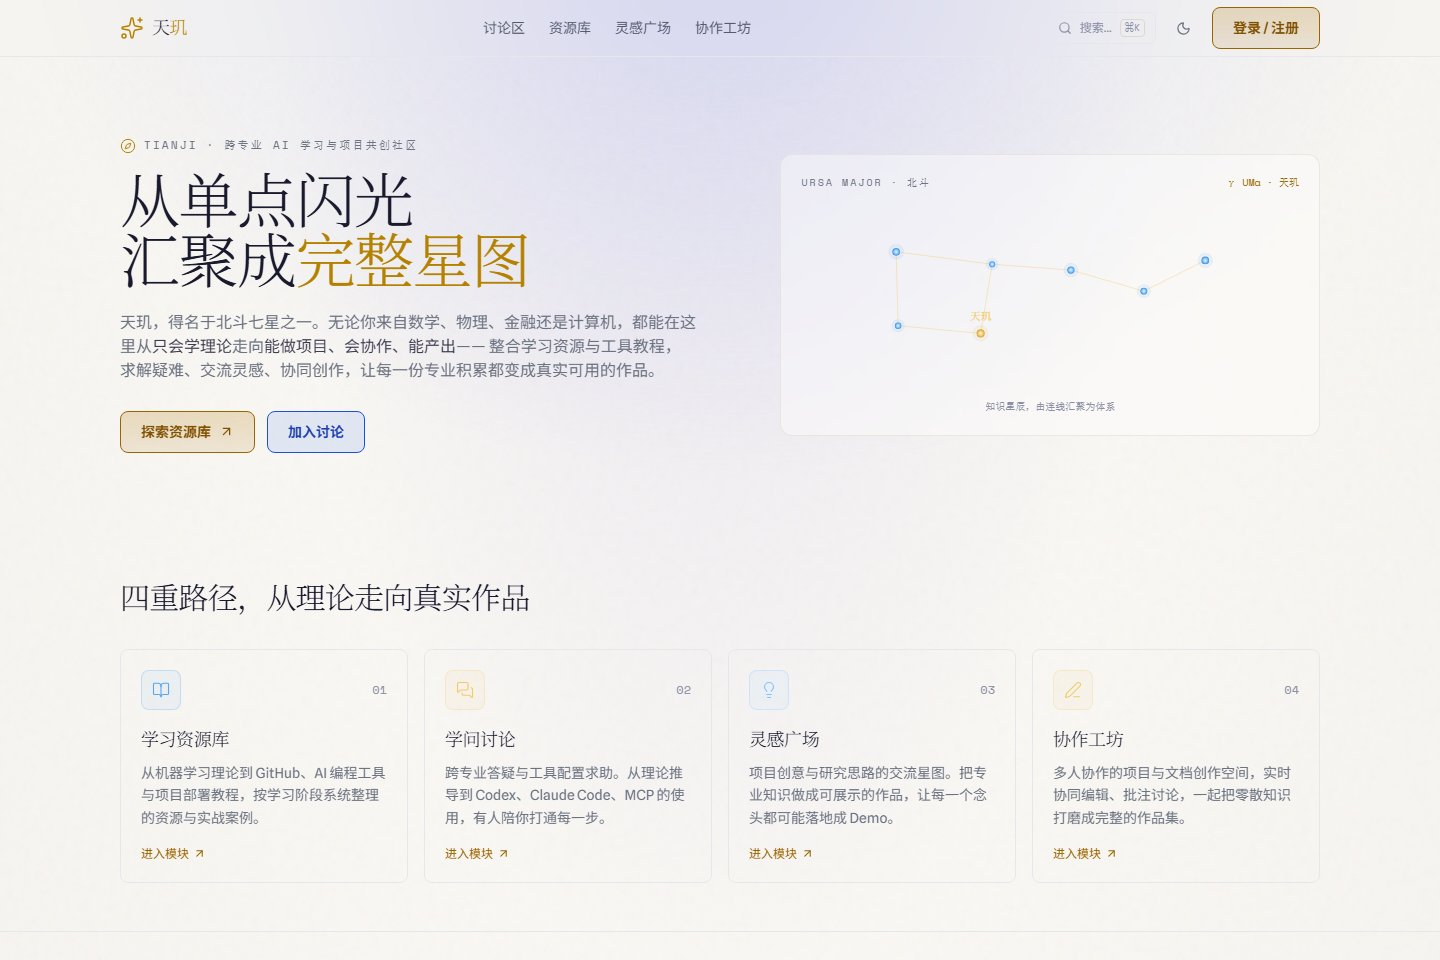
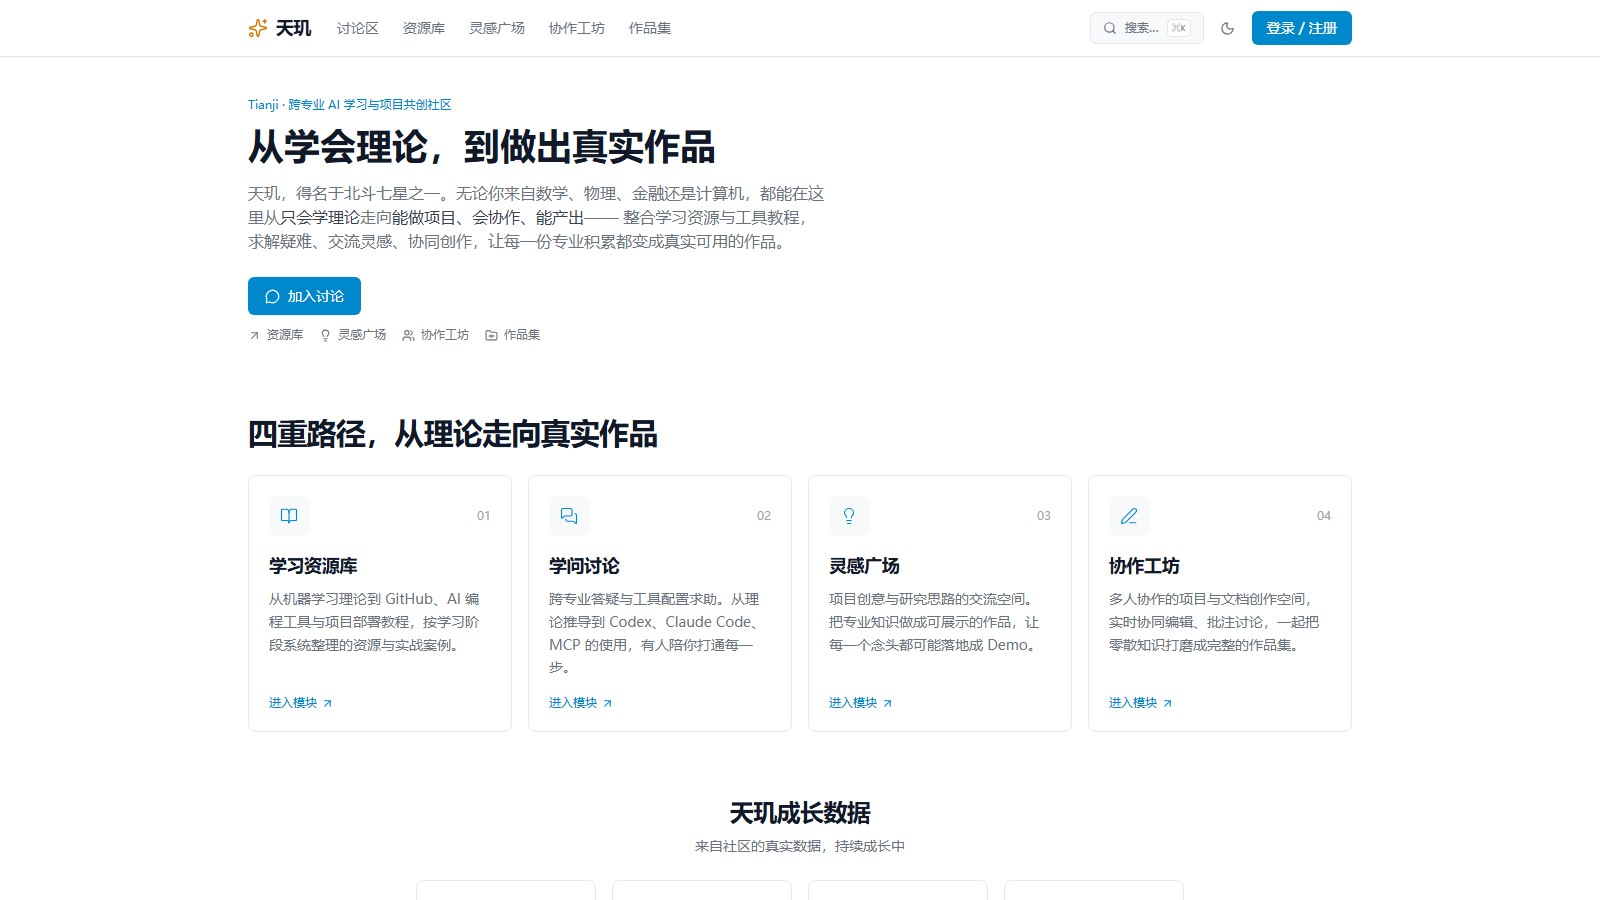
docs: 更新界面预览截图为白色 Discourse 风格
- 重截首页讨论区/资源库/灵感广场/协作工坊/关于页五张截图（1600x900）
- 新增 tianji-home.jpg，删除旧深色主题的 tianji-action-modal.jpg
- README 界面预览表格改为：首页讨论区、资源库、灵感广场、协作工坊、关于页·产品概览

diff --git a/README.md b/README.md
@@ -52,17 +52,17 @@ ICP 备案已完成，自定义域名 `tianjihub.cn` 正式运行。
 
 ## 界面预览
 
-| 产品概览 | 资源库 |
+| 首页讨论区 | 资源库 |
 | --- | --- |
-| ![天玑产品概览](docs/images/tianji-about.jpg) | ![天玑资源库](docs/images/tianji-library.jpg) |
+| ![天玑首页讨论区](docs/images/tianji-home.jpg) | ![天玑资源库](docs/images/tianji-library.jpg) |
 
 | 灵感广场 | 协作工坊 |
 | --- | --- |
 | ![天玑灵感广场](docs/images/tianji-ideas.jpg) | ![天玑协作工坊](docs/images/tianji-workshop.jpg) |
 
-| 登录与行动入口 |
+| 关于页 · 产品概览 |
 | --- |
-| ![天玑登录与行动入口](docs/images/tianji-action-modal.jpg) |
+| ![天玑产品概览](docs/images/tianji-about.jpg) |
 
 > demo GIF 录制中，将在比赛提交前替换静态截图。
 
